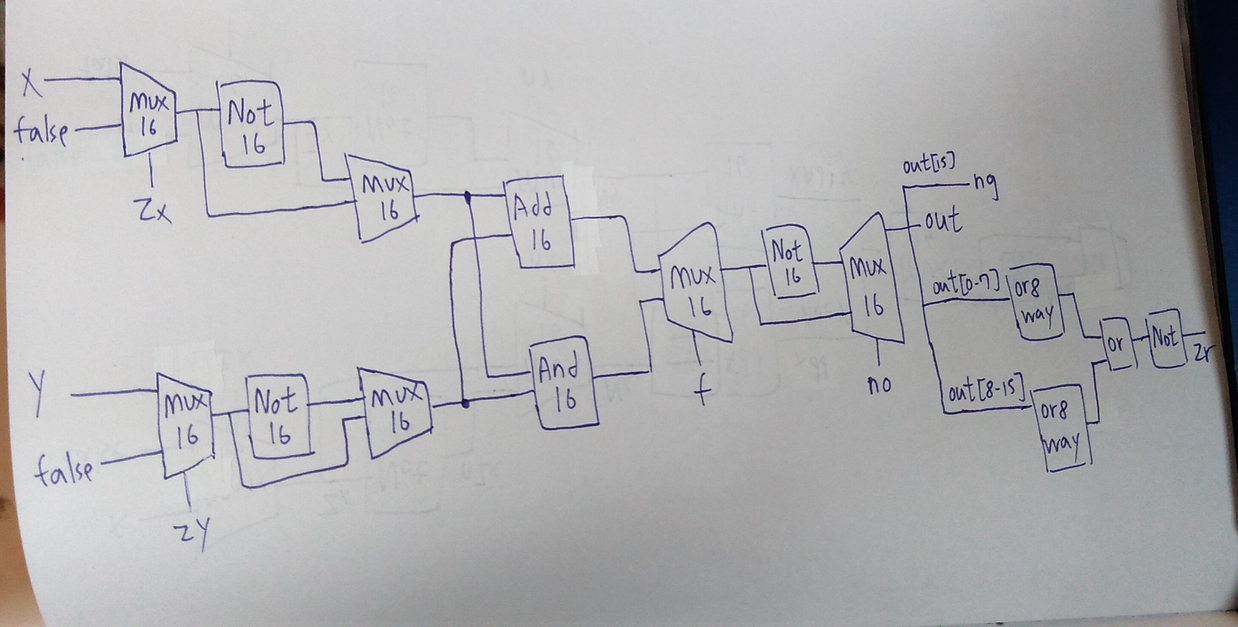
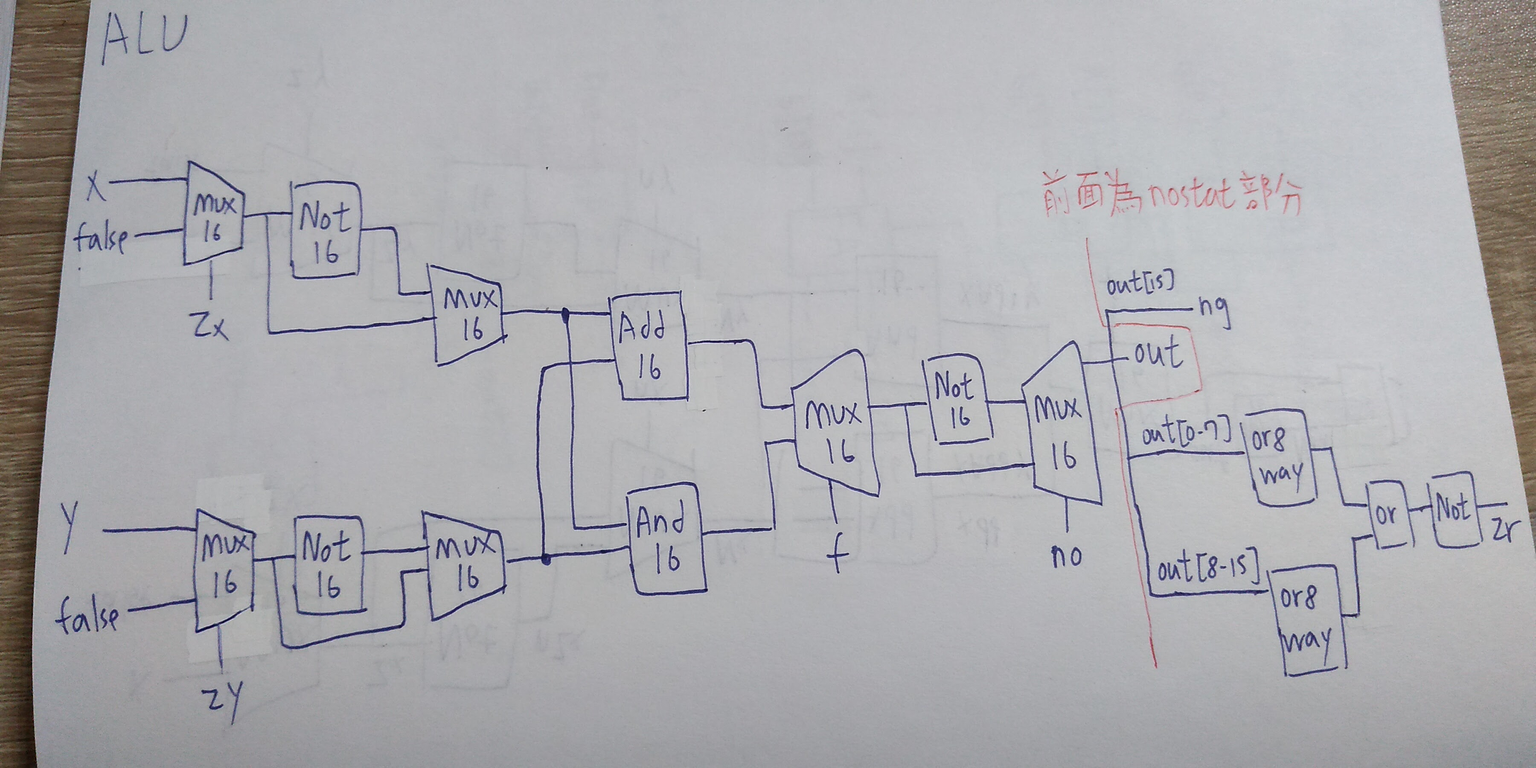
add homework

diff --git a/Homework/04.md b/Homework/04.md
@@ -32,6 +32,53 @@ CHIP ALU {
     Mux16(a=xandy, b=xaddy, sel=f, out=Out);
 
     Not16(in=Out, out=nOut);   
-    Mux16(a=Out, b=nOut, sel=no, out=out);
+    Mux16(a=Out, b=nOut, sel=no, out=out);      // if (no == 1) set out = !out
+   // Put you code here:
 }
 ```
+
+## ALU
+```
+CHIP ALU {
+    IN  
+        x[16], y[16],  // 16-bit inputs        
+        zx, // zero the x input?
+        nx, // negate the x input?
+        zy, // zero the y input?
+        ny, // negate the y input?
+        f,  // compute out = x + y (if 1) or x & y (if 0)
+        no; // negate the out output?
+
+    OUT 
+        out[16], // 16-bit output
+        zr, // 1 if (out == 0), 0 otherwise
+        ng; // 1 if (out < 0),  0 otherwise
+
+    PARTS:
+    Mux16(a=x, b=false, sel=zx, out=Zx);            // if (zx == 1) set x = 0 
+    Not16(in=Zx, out=nZx);                      // set !x
+    Mux16(a=Zx, b=nZx, sel=nx, out=Nx);         // if (nx == 1) set x = !x
+
+    Mux16(a=y, b=false, sel=zy, out=Zy);            // if (zy == 1) set y = 0
+    Not16(in=Zy, out=nZy);             
+    Mux16(a=Zy, b=nZy, sel=ny, out=Ny);         // if (ny == 1) set y = !y
+
+    Add16(a=Nx, b=Ny, out=xaddy);             // if (f == 1)  set out = x + y
+    And16(a=Nx, b=Ny, out=xandy);             // if (f == 0)  set out = x & y
+    Mux16(a=xandy, b=xaddy, sel=f, out=Out);
+
+    Not16(in=Out, out=nOut);   
+    Mux16(a=Out, b=nOut, sel=no, out=out, out[0..7]=o1, out[8..15]=o2, out[15]=ng);      // if (no == 1) set out = !out
+
+    Or8Way(in=o1, out=out1);
+    Or8Way(in=o2, out=out2);
+    Or(a=out1, b=out2, out=out3);
+    Not(in=out3, out=zr);
+
+
+// if (out == 0) set zr = 1
+// if (out < 0) set ng = 1
+   // Put you code here:
+}
+```
+<img src="../零件/02/alu.jpg" width="400" height="200"  align=center /> 
